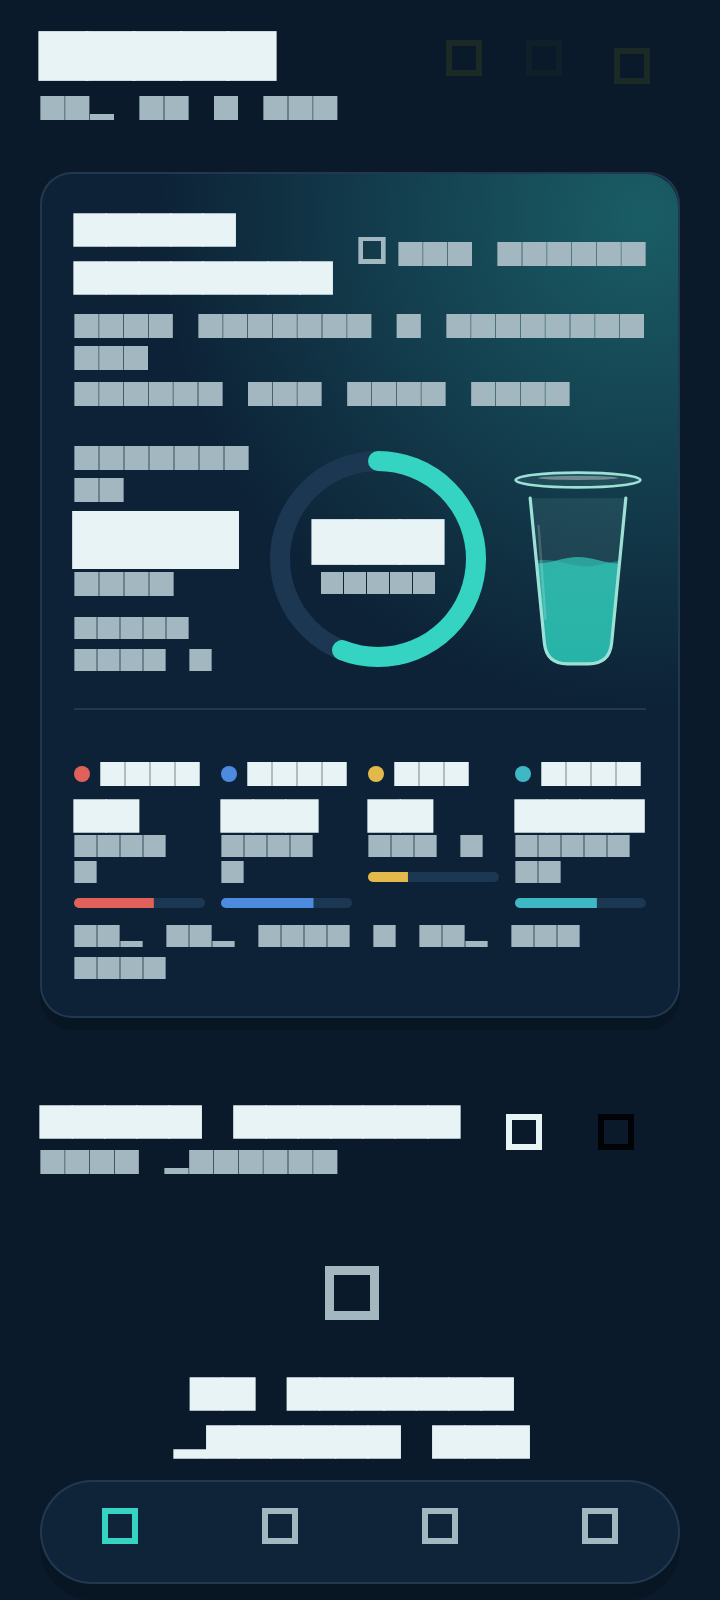
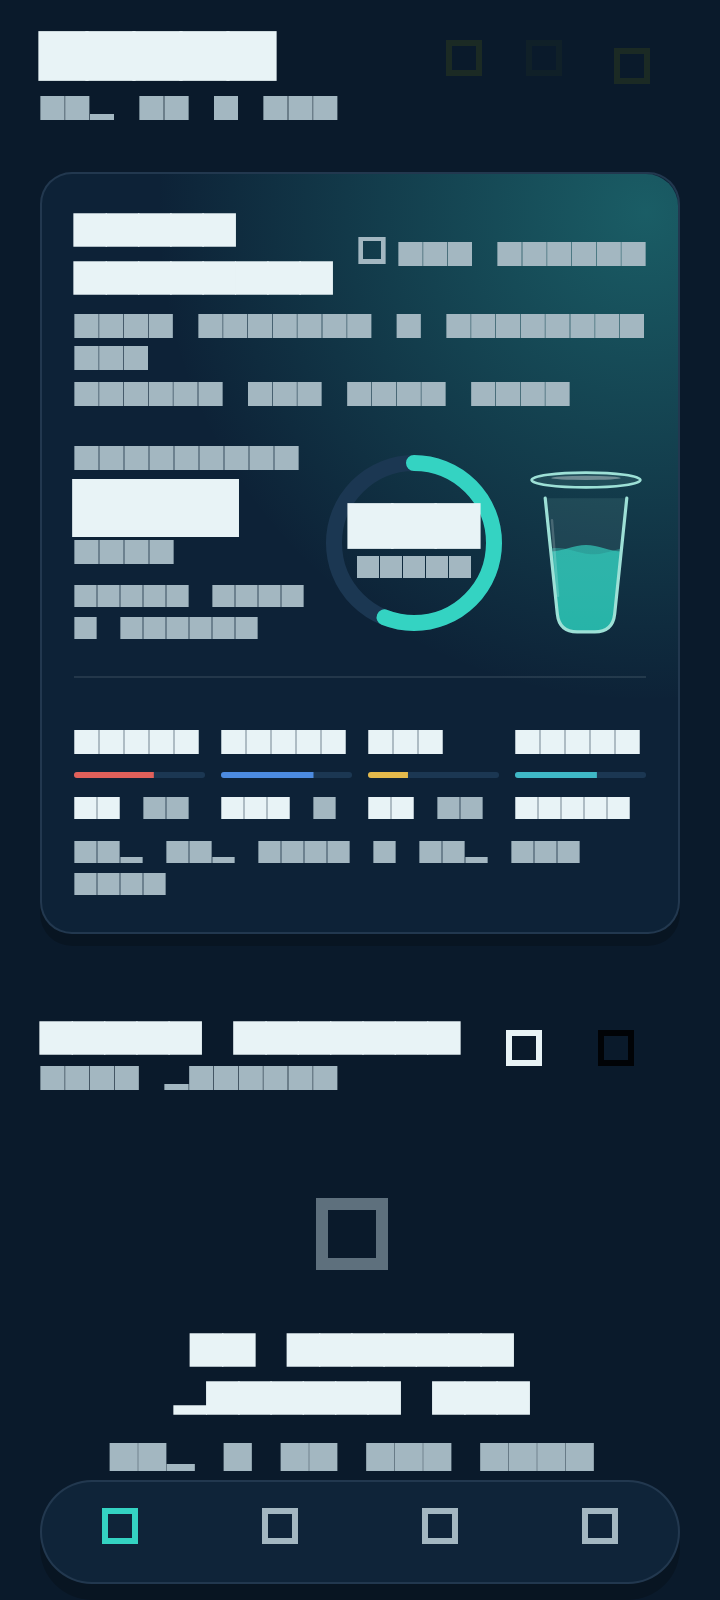
style(ui): tighten toward the V2 mockups
- MacroColumn: label / 3px bar / "78/150g" — matches boards 01 & 09 (was a
  big number above a 5px bar)
- SportProgressBar 6px -> 4px; Today calorie ring 108 -> 88 / stroke 8
- inputDecorationTheme: borderless filled (surfaceContainerLow) instead of a
  heavy outline on every field; accent underline only on focus
- SportEmptyState icon 36 -> 48, softened to 55% opacity
- Today meal rows: single flush line (name · foods … kcal) with hairline
  dividers, not stacked ListTiles
- onboarding welcome: add a line-art glass + dumbbell illustration

Preview goldens regenerated. Full suite green.

Claude-Session: https://claude.ai/code/session_01CWB8cLUtUBP9ZBJ1jWMsCM

Changed region(s): [[0.0306, 0.2812, 0.9167, 0.9375], [0.825, 0.625, 0.8861, 0.7188], [0.7028, 0.625, 0.7639, 0.7188]]

diff --git a/lib/ui/today/today_summary_widgets.dart b/lib/ui/today/today_summary_widgets.dart
@@ -183,53 +183,19 @@ class MacroColumn extends StatelessWidget {
         crossAxisAlignment: CrossAxisAlignment.start,
         mainAxisSize: MainAxisSize.min,
         children: [
-          Row(
-            children: [
-              Container(
-                width: 8,
-                height: 8,
-                decoration: BoxDecoration(color: color, shape: BoxShape.circle),
-              ),
-              const SizedBox(width: 5),
-              Flexible(
-                child: Text(
-                  label,
-                  maxLines: 1,
-                  overflow: TextOverflow.ellipsis,
-                  style: theme.textTheme.labelMedium?.copyWith(
-                    color: labelColor ?? scheme.onSurfaceVariant,
-                  ),
-                ),
-              ),
-            ],
+          Text(
+            label,
+            maxLines: 1,
+            overflow: TextOverflow.ellipsis,
+            style: theme.textTheme.labelMedium?.copyWith(
+              color: labelColor ?? scheme.onSurfaceVariant,
+            ),
           ),
-          const SizedBox(height: 4),
-          Wrap(
-            crossAxisAlignment: WrapCrossAlignment.end,
-            spacing: 2,
-            children: [
-              Text(
-                valueText,
-                style: theme.textTheme.titleMedium?.copyWith(
-                  fontWeight: FontWeight.w700,
-                  height: 1.1,
-                  color: over ? scheme.error : (labelColor ?? scheme.onSurface),
-                ),
-              ),
-              Text(
-                '/$targetText $unit',
-                style: theme.textTheme.labelSmall?.copyWith(
-                  height: 1.2,
-                  color: metaColor ?? scheme.onSurfaceVariant,
-                ),
-              ),
-            ],
-          ),
-          const SizedBox(height: 6),
+          const SizedBox(height: 7),
           ClipRRect(
-            borderRadius: BorderRadius.circular(3),
+            borderRadius: BorderRadius.circular(2),
             child: SizedBox(
-              height: 5,
+              height: 3,
               child: Stack(
                 fit: StackFit.expand,
                 children: [
@@ -242,6 +208,28 @@ class MacroColumn extends StatelessWidget {
                 ],
               ),
             ),
+          ),
+          const SizedBox(height: 7),
+          Text.rich(
+            TextSpan(
+              children: [
+                TextSpan(
+                  text: valueText,
+                  style: TextStyle(
+                    color: over
+                        ? scheme.error
+                        : (labelColor ?? scheme.onSurface),
+                  ),
+                ),
+                TextSpan(
+                  text: ' /$targetText $unit',
+                  style: TextStyle(color: metaColor ?? scheme.onSurfaceVariant),
+                ),
+              ],
+            ),
+            maxLines: 1,
+            overflow: TextOverflow.ellipsis,
+            style: theme.textTheme.labelSmall,
           ),
         ],
       ),

diff --git a/lib/ui/today/today_page.dart b/lib/ui/today/today_page.dart
@@ -288,7 +288,8 @@ class _TodayPageState extends ConsumerState<TodayPage> {
                         eaten: intake.calories,
                         target: targetCalories,
                         over: remainCal < 0,
-                        size: 108,
+                        size: 88,
+                        strokeWidth: 8,
                         color: visuals.accent,
                         trackColor: visuals.track,
                         centerLabel: l10n.eatenWord,
@@ -298,8 +299,8 @@ class _TodayPageState extends ConsumerState<TodayPage> {
                       const SizedBox(width: 12),
                       WaterCupControl(
                         progress: waterGoal <= 0 ? 0 : waterMl / waterGoal,
-                        height: 108,
-                        width: 68,
+                        height: 92,
+                        width: 60,
                         onAdd: canAddWater
                             ? () => ref
                                   .read(waterRepositoryProvider)
@@ -698,23 +699,44 @@ class _MealGroups extends StatelessWidget {
       if (group.isEmpty) continue;
       final calories = group.fold<double>(0, (sum, m) => sum + m.calories);
       groups.add(
-        SportListTile(
-          contentPadding: EdgeInsets.zero,
-          title: Text(type.label(l10n), style: theme.textTheme.titleSmall),
-          subtitle: Text(
-            group.map((m) => m.foodName).join(' · '),
-            maxLines: 1,
-            overflow: TextOverflow.ellipsis,
-          ),
-          trailing: Text(
-            '${calories.round()} kcal',
-            style: theme.textTheme.bodySmall,
-          ),
+        InkWell(
           onTap: onOpen,
+          child: Padding(
+            padding: const EdgeInsets.symmetric(vertical: 12),
+            child: Row(
+              children: [
+                Text(type.label(l10n), style: theme.textTheme.titleSmall),
+                const SizedBox(width: 12),
+                Expanded(
+                  child: Text(
+                    group.map((m) => m.foodName).join(' · '),
+                    maxLines: 1,
+                    overflow: TextOverflow.ellipsis,
+                    style: theme.textTheme.bodySmall?.copyWith(
+                      color: theme.colorScheme.onSurfaceVariant,
+                    ),
+                  ),
+                ),
+                const SizedBox(width: 8),
+                Text(
+                  '${calories.round()} kcal',
+                  style: theme.textTheme.bodySmall,
+                ),
+              ],
+            ),
+          ),
         ),
       );
     }
-    return Column(children: groups);
+    return Column(
+      children: [
+        for (var i = 0; i < groups.length; i++) ...[
+          if (i > 0)
+            Divider(height: 1, color: AppThemeVisuals.of(context).divider),
+          groups[i],
+        ],
+      ],
+    );
   }
 }
 

diff --git a/lib/ui/onboarding/onboarding_page.dart b/lib/ui/onboarding/onboarding_page.dart
@@ -156,7 +156,20 @@ class _OnboardingPageState extends ConsumerState<OnboardingPage> {
                       color: theme.colorScheme.onSurfaceVariant,
                     ),
                   ),
-                  const SizedBox(height: 40),
+                  const SizedBox(height: 24),
+                  Center(
+                    child: SizedBox(
+                      width: 200,
+                      height: 160,
+                      child: CustomPaint(
+                        painter: _WelcomeArtPainter(
+                          stroke: theme.colorScheme.primary,
+                          fill: theme.colorScheme.primaryContainer,
+                        ),
+                      ),
+                    ),
+                  ),
+                  const SizedBox(height: 32),
                   _Feature(
                     icon: Icons.restaurant_outlined,
                     title: l10n.onboardingFeature1Title,
@@ -327,6 +340,69 @@ class _OnboardingPageState extends ConsumerState<OnboardingPage> {
       ),
     );
   }
+}
+
+/// Simple line-art: a glass of water beside a dumbbell (board 08.01).
+class _WelcomeArtPainter extends CustomPainter {
+  _WelcomeArtPainter({required this.stroke, required this.fill});
+
+  final Color stroke;
+  final Color fill;
+
+  @override
+  void paint(Canvas canvas, Size size) {
+    final line = Paint()
+      ..color = stroke
+      ..style = PaintingStyle.stroke
+      ..strokeWidth = 3
+      ..strokeCap = StrokeCap.round
+      ..strokeJoin = StrokeJoin.round;
+    final soft = Paint()..color = fill;
+
+    // Glass (tapered tumbler) on the left.
+    final glass = Path()
+      ..moveTo(24, 30)
+      ..lineTo(34, 140)
+      ..lineTo(84, 140)
+      ..lineTo(94, 30)
+      ..close();
+    canvas.drawPath(
+      Path()
+        ..moveTo(30, 78)
+        ..lineTo(38, 140)
+        ..lineTo(80, 140)
+        ..lineTo(88, 78)
+        ..close(),
+      soft,
+    );
+    canvas.drawPath(glass, line);
+    canvas.drawLine(const Offset(27, 55), const Offset(91, 55), line);
+
+    // Dumbbell on the right.
+    canvas.drawLine(const Offset(120, 92), const Offset(180, 92), line);
+    for (final x in [116.0, 184.0]) {
+      canvas.drawRRect(
+        RRect.fromRectAndRadius(
+          Rect.fromCenter(center: Offset(x, 92), width: 16, height: 44),
+          const Radius.circular(4),
+        ),
+        line,
+      );
+    }
+    for (final x in [104.0, 196.0]) {
+      canvas.drawRRect(
+        RRect.fromRectAndRadius(
+          Rect.fromCenter(center: Offset(x, 92), width: 12, height: 30),
+          const Radius.circular(4),
+        ),
+        line,
+      );
+    }
+  }
+
+  @override
+  bool shouldRepaint(_WelcomeArtPainter old) =>
+      old.stroke != stroke || old.fill != fill;
 }
 
 class _Feature extends StatelessWidget {

diff --git a/lib/ui/theme/sport_chrome.dart b/lib/ui/theme/sport_chrome.dart
@@ -141,11 +141,15 @@ class SportEmptyState extends StatelessWidget {
   Widget build(BuildContext context) {
     final theme = Theme.of(context);
     return Padding(
-      padding: const EdgeInsets.symmetric(vertical: 32, horizontal: 20),
+      padding: const EdgeInsets.symmetric(vertical: 40, horizontal: 20),
       child: Column(
         mainAxisSize: MainAxisSize.min,
         children: [
-          Icon(icon, size: 36, color: theme.colorScheme.onSurfaceVariant),
+          Icon(
+            icon,
+            size: 48,
+            color: theme.colorScheme.onSurfaceVariant.withValues(alpha: 0.55),
+          ),
           const SizedBox(height: 16),
           Text(
             title,
@@ -384,8 +388,8 @@ class SportProgressBar extends StatelessWidget {
   const SportProgressBar({
     super.key,
     required this.value,
-    this.minHeight = 6,
-    this.borderRadius = 4,
+    this.minHeight = 4,
+    this.borderRadius = 3,
     this.color,
   });
 

diff --git a/lib/ui/theme/app_theme.dart b/lib/ui/theme/app_theme.dart
@@ -709,13 +709,14 @@ class AppTheme {
       ),
       inputDecorationTheme: InputDecorationTheme(
         filled: true,
-        fillColor: visuals.card,
+        fillColor: scheme.surfaceContainerLow,
         border: OutlineInputBorder(
           borderRadius: BorderRadius.circular(AppRadius.tile),
+          borderSide: BorderSide.none,
         ),
         enabledBorder: OutlineInputBorder(
           borderRadius: BorderRadius.circular(AppRadius.tile),
-          borderSide: BorderSide(color: border),
+          borderSide: BorderSide.none,
         ),
         focusedBorder: OutlineInputBorder(
           borderRadius: BorderRadius.circular(AppRadius.tile),
@@ -725,6 +726,7 @@ class AppTheme {
           horizontal: 16,
           vertical: 14,
         ),
+        floatingLabelBehavior: FloatingLabelBehavior.auto,
         hintStyle: text.bodyMedium?.copyWith(color: scheme.onSurfaceVariant),
       ),
       snackBarTheme: SnackBarThemeData(
